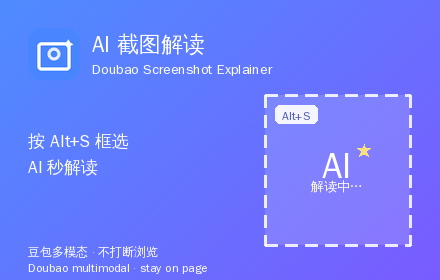
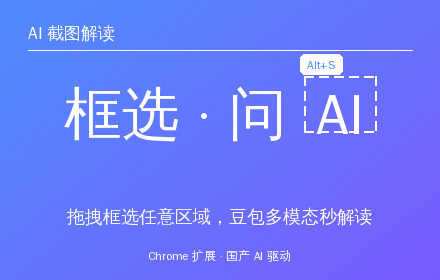
Redo 440x280 promo tile with tighter hierarchy
The previous tile crammed 6 separate text blocks (bilingual title +
sub + headline + bottom strip × 2) into 440x280, which made every
element small and hard to scan in CWS search results next to
competitors like Sider/Math AI/Screenshot Solver.

New layout, single language (Chinese, since this is the zh-CN promo
slot):
- Small product name + thin separator at top
- BIG centered headline "框选 · 问 AI", with the "AI" glyph wrapped in
  the brand dashed-selection rectangle. The Alt+S kbd badge clings to
  the top-left corner of that box. The brand element is now meaning-
  carrying (it's literally framing the AI) instead of a separate
  decorative box.
- Medium subtitle "拖拽框选任意区域，豆包多模态秒解读"
- Tiny brand strip at bottom

Replaces store/promo-440x280.png. Script saved to
scripts/make_promo.py for future tweaks.

https://claude.ai/code/session_01LxAhrvVrBx9qz2yuCwSDzF

diff --git a/scripts/make_promo.py b/scripts/make_promo.py
@@ -1,0 +1,113 @@
+"""
+Redesign the 440x280 small promo tile for CWS.
+Goal: bigger primary message, cleaner hierarchy, single language (zh),
+brand element (dashed frame) integrated into the headline rather than
+sitting separately.
+"""
+import math
+from PIL import Image, ImageDraw, ImageFont
+from pathlib import Path
+
+REPO = Path("/home/user/DOUBAO-Chrome-extension")
+OUT = REPO / "store" / "promo-440x280.png"
+
+FONT = "/usr/share/fonts/truetype/wqy/wqy-zenhei.ttc"
+W, H = 440, 280
+BRAND_FROM = (79, 140, 255)
+BRAND_TO   = (122, 92, 255)
+
+def gradient(w, h, c1, c2):
+    im = Image.new("RGB", (w, h), c1)
+    px = im.load()
+    for y in range(h):
+        for x in range(w):
+            t = (x/(w-1))*0.55 + (y/(h-1))*0.45
+            px[x, y] = (
+                int(c1[0]+(c2[0]-c1[0])*t),
+                int(c1[1]+(c2[1]-c1[1])*t),
+                int(c1[2]+(c2[2]-c1[2])*t),
+            )
+    return im
+
+def dashed_rect(d, box, color, w=2, dash=10, gap=6):
+    x0, y0, x1, y1 = box
+    for x in range(int(x0), int(x1), dash + gap):
+        d.line([(x, y0), (min(x + dash, x1), y0)], fill=color, width=w)
+        d.line([(x, y1), (min(x + dash, x1), y1)], fill=color, width=w)
+    for y in range(int(y0), int(y1), dash + gap):
+        d.line([(x0, y), (x0, min(y + dash, y1))], fill=color, width=w)
+        d.line([(x1, y), (x1, min(y + dash, y1))], fill=color, width=w)
+
+img = gradient(W, H, BRAND_FROM, BRAND_TO).convert("RGBA")
+d = ImageDraw.Draw(img, "RGBA")
+
+# --- Top: small product name + separator ---
+name_font = ImageFont.truetype(FONT, 17)
+d.text((28, 22), "AI 截图解读", fill=(255, 255, 255, 235), font=name_font)
+d.line([(28, 50), (W - 28, 50)], fill=(255, 255, 255, 70), width=1)
+
+# --- Big headline with "AI" wrapped in a dashed selection box ---
+# Headline rendered as two parts so we can draw the dashed box around AI.
+head_font = ImageFont.truetype(FONT, 58)
+prefix = "框选 · 问 "
+ai_text = "AI"
+
+pre_w = d.textlength(prefix, font=head_font)
+ai_w = d.textlength(ai_text, font=head_font)
+ai_bb = d.textbbox((0, 0), ai_text, font=head_font)
+ai_h = ai_bb[3] - ai_bb[1]
+pre_bb = d.textbbox((0, 0), prefix, font=head_font)
+pre_h = pre_bb[3] - pre_bb[1]
+
+total_w = pre_w + ai_w + 24  # AI gets +24 horizontal padding for the box
+hx = (W - total_w) // 2
+hy = 78
+
+# Draw prefix
+d.text((hx, hy), prefix, fill="white", font=head_font)
+
+# Position AI inside its box (slightly higher to align baselines visually)
+ai_box_padding_x = 12
+ai_box_padding_y = 6
+ai_x = hx + pre_w + ai_box_padding_x
+d.text((ai_x, hy), ai_text, fill="white", font=head_font)
+
+# Dashed selection box around AI
+ai_box = (
+    ai_x - ai_box_padding_x,
+    hy - ai_box_padding_y + 4,
+    ai_x + ai_w + ai_box_padding_x,
+    hy + ai_h + ai_box_padding_y + 8,
+)
+dashed_rect(d, ai_box, (255, 255, 255, 230), w=2, dash=9, gap=6)
+
+# Tiny "Alt+S" badge clinging to the top-left corner of the dashed box
+kbd_font = ImageFont.truetype(FONT, 12)
+kbd_text = "Alt+S"
+kbd_w = d.textlength(kbd_text, font=kbd_font)
+bx0 = ai_box[0] - 4
+by0 = ai_box[1] - 22
+d.rounded_rectangle(
+    (bx0, by0, bx0 + kbd_w + 14, by0 + 20),
+    radius=5, fill=(255, 255, 255, 250)
+)
+d.text((bx0 + 7, by0 + 3), kbd_text, fill=BRAND_FROM, font=kbd_font)
+
+# --- Subtitle ---
+sub_font = ImageFont.truetype(FONT, 18)
+sub = "拖拽框选任意区域，豆包多模态秒解读"
+sb = d.textbbox((0, 0), sub, font=sub_font)
+sw = sb[2] - sb[0]
+sx = (W - sw) // 2 - sb[0]
+d.text((sx, 205), sub, fill=(255, 255, 255, 230), font=sub_font)
+
+# --- Brand strip at very bottom ---
+brand_font = ImageFont.truetype(FONT, 12)
+brand = "Chrome 扩展 · 国产 AI 驱动"
+bbb = d.textbbox((0, 0), brand, font=brand_font)
+bw = bbb[2] - bbb[0]
+bx = (W - bw) // 2 - bbb[0]
+d.text((bx, 248), brand, fill=(255, 255, 255, 170), font=brand_font)
+
+img.convert("RGB").save(OUT, "PNG", optimize=True)
+print(f"wrote {OUT} ({img.size})")